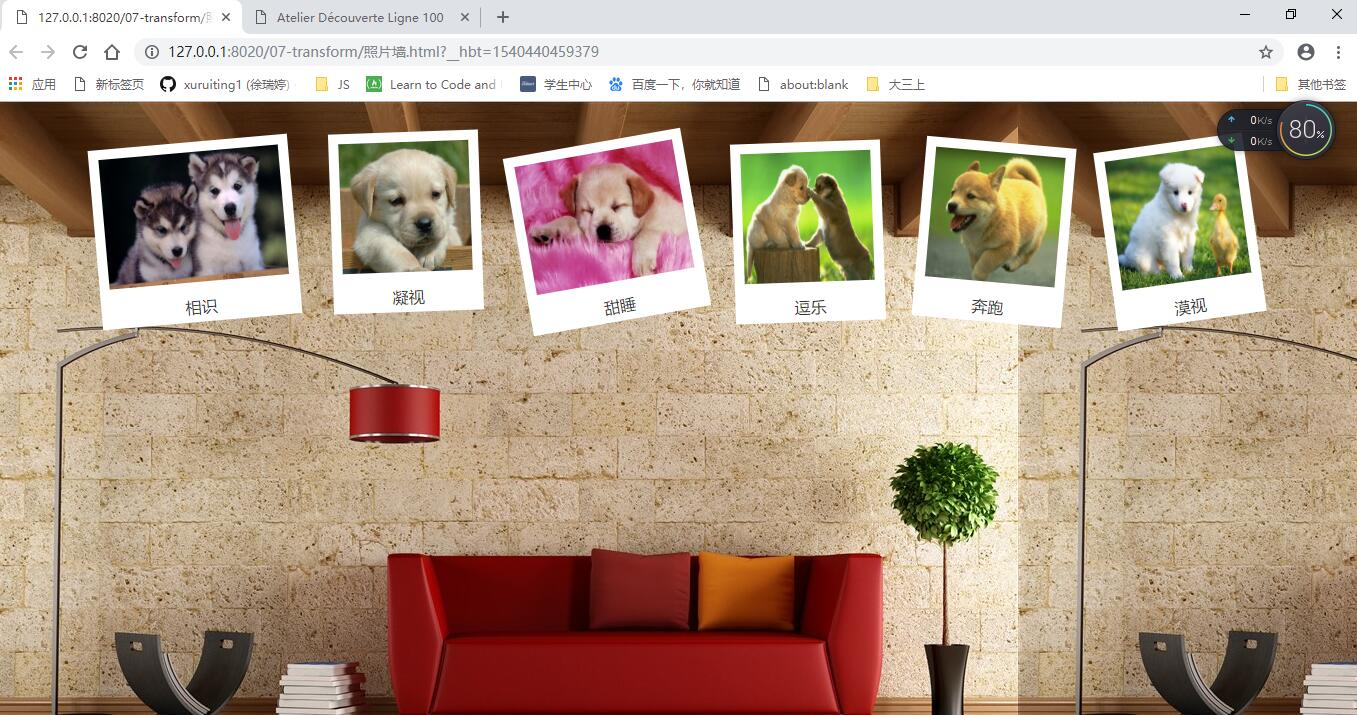
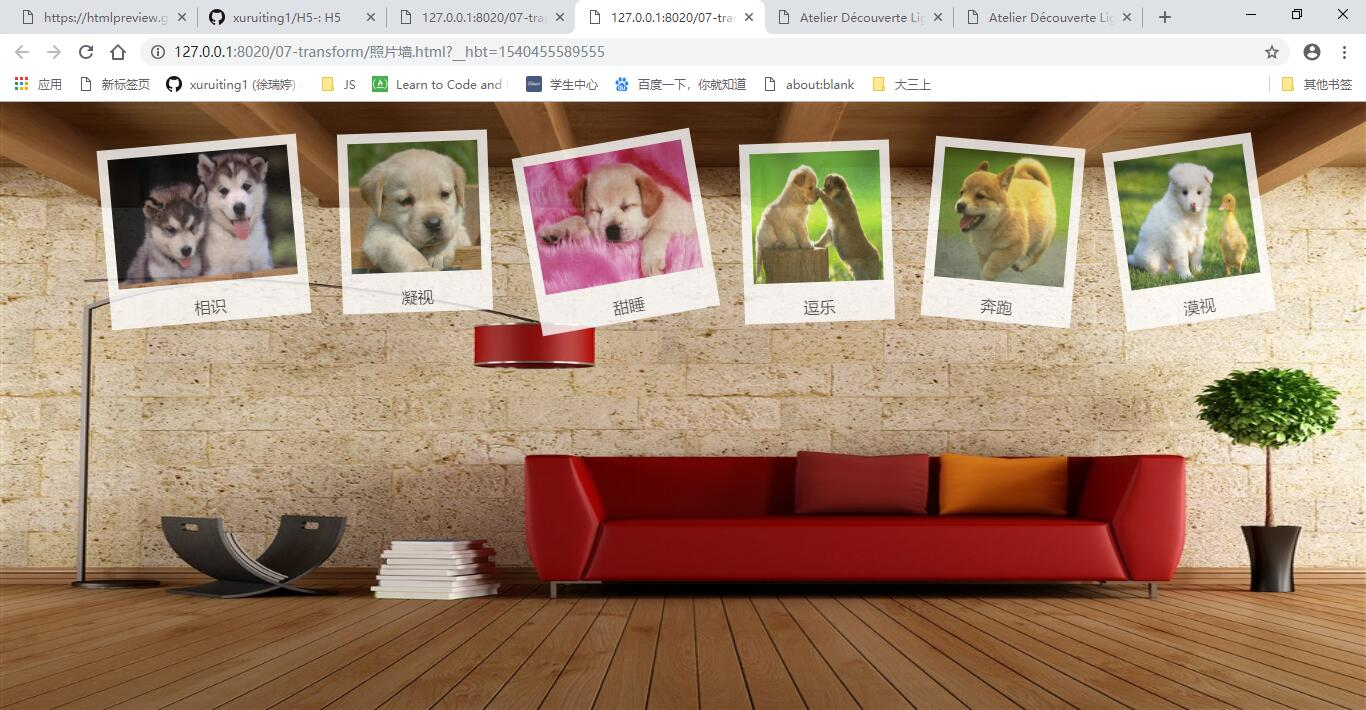
photo

diff --git a/07-transform/照片墙.html b/07-transform/照片墙.html
@@ -5,9 +5,9 @@
 		<title></title>
 		<style>
 			body{
-				width:1360px;
-				height: 630px;
-				background-image: url(images/bg3.gif);
+				width:1355px;
+				height: 560px;
+				background-image: url(images/bg3.JPG);
 				background-repeat:no-repeat ;
 				background-size: 100% 100%;
 				/*background-color: red;*/
@@ -28,6 +28,7 @@
 				float: left;
 				margin-right: 18px;
 				margin-left: 18px;
+				opacity: 0.8;
 			}
 			.divimg img{
 				width: 130px;
@@ -41,6 +42,7 @@
 			#img1{
 				width: 200px;
 				transform: rotate(-5deg);
+				
 			}
 			#img2{
 				transform: rotate(-2deg);
@@ -64,23 +66,35 @@
 			#img1:hover{
 				width: 200px;
 				transform: rotate(0deg) scale(1.3,1.3);
+				opacity: 1;
+				box-shadow: -3px 3px 1px 1px brown;
 			}
 			#img2:hover{
 				transform: rotate(0deg) scale(1.3,1.3);
 				margin-top: -10px;
+				opacity: 1;
+				box-shadow: -3px 3px 1px 1px brown;
 			}
 			#img3:hover{
 				width: 180px;
 				transform: rotate(0deg) scale(1.3,1.3);
+				opacity: 1;
+				box-shadow: -3px 3px 1px 1px brown;
 			}
 			#img4:hover{
 				transform: rotate(0deg) scale(1.3,1.3);
+				opacity: 1;
+				box-shadow: -3px 3px 1px 1px brown;
 			}
 			#img5:hover{
 				transform: rotate(0deg) scale(1.3,1.3);
+				opacity: 1;
+				box-shadow: -3px 3px 1px 1px brown;
 			}
 			#img6:hover{
 				transform: rotate(0deg) scale(1.3,1.3);
+				opacity: 1;
+				box-shadow: -3px 3px 1px 1px brown;
 			}
 			
 			#img1 img{
